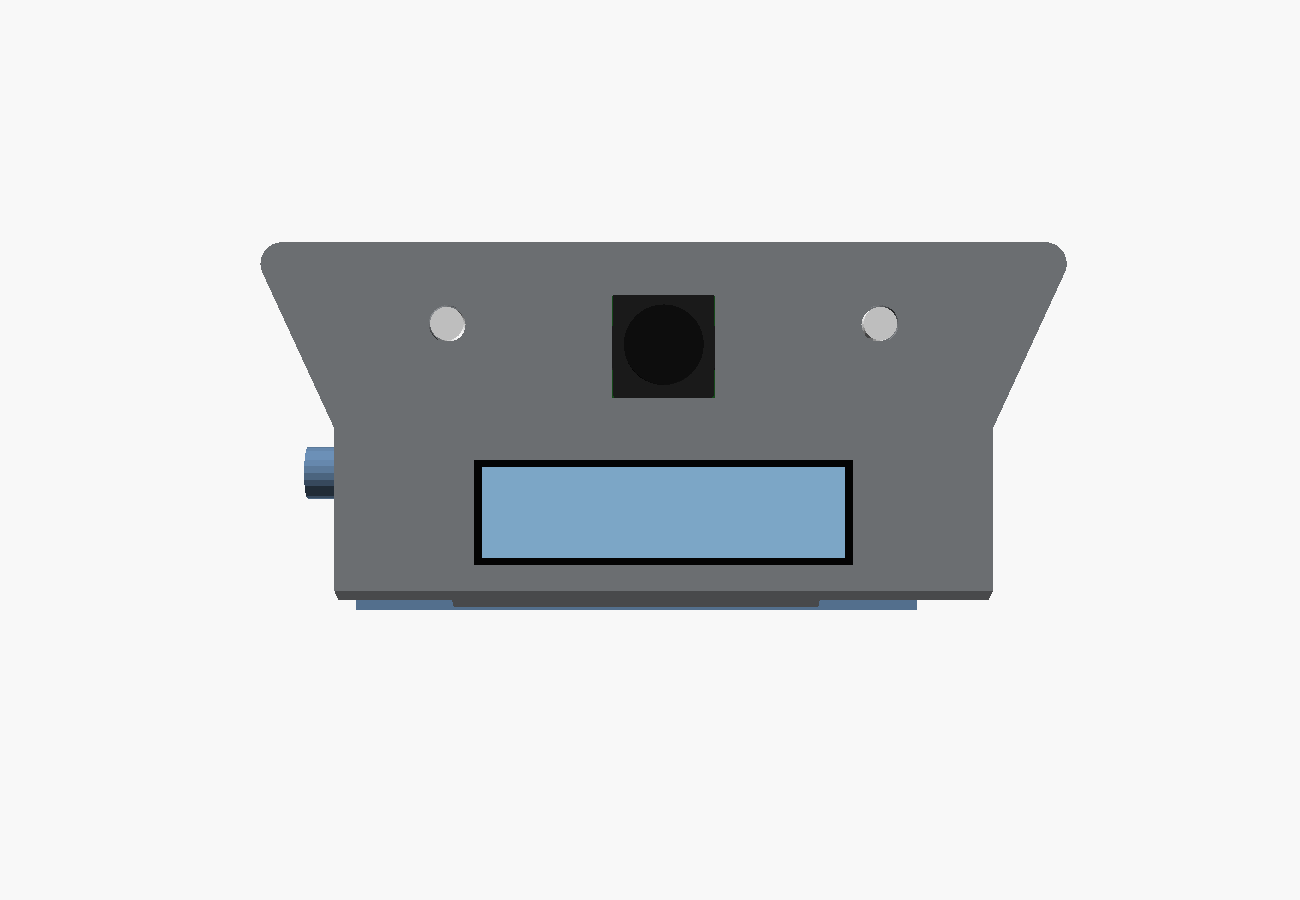
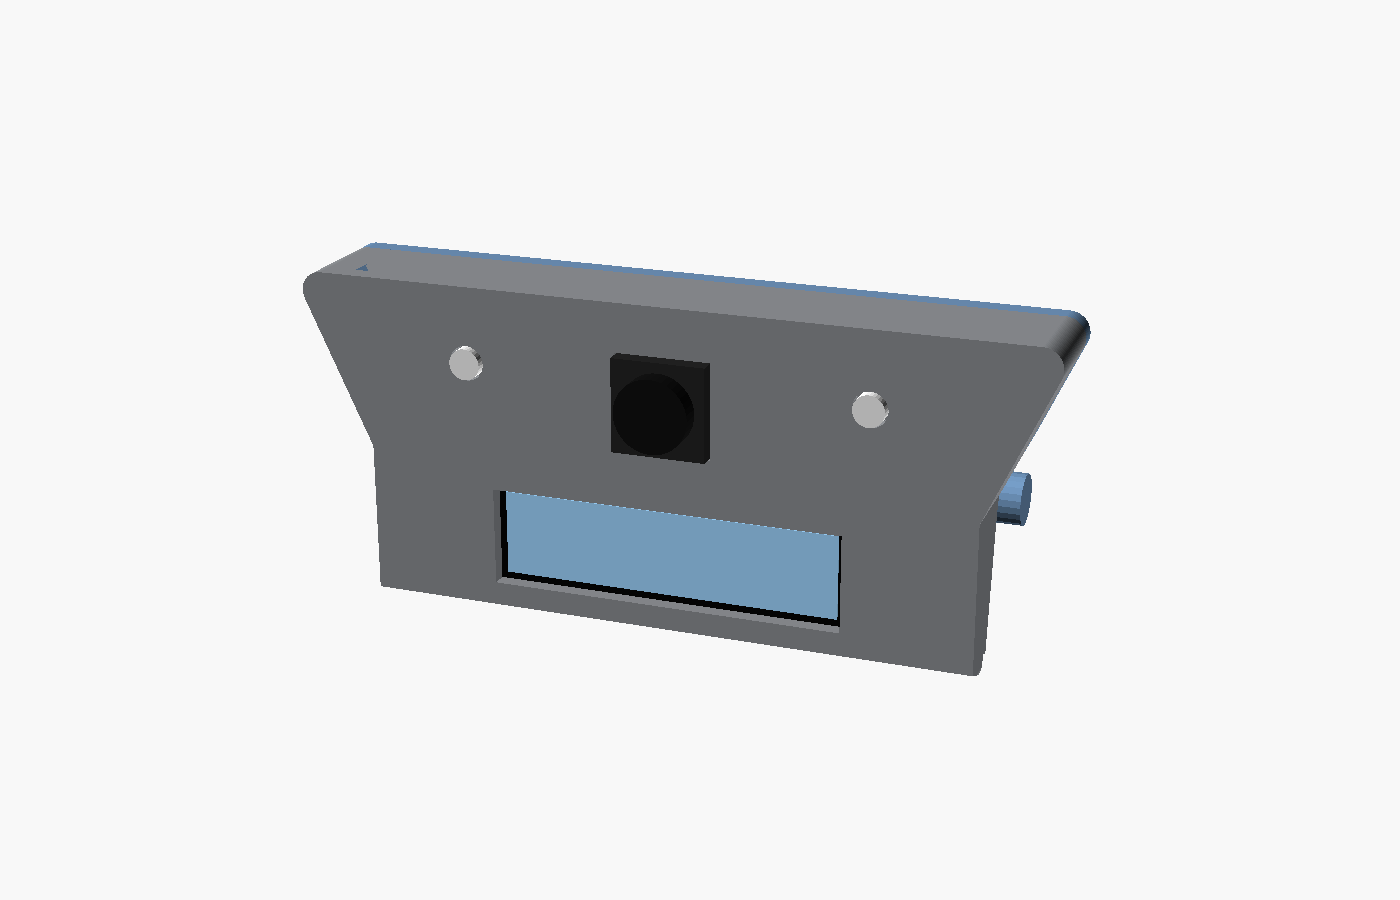
head_v6: closed shell (full sides and bottom to the back plate), full-width back plate with cable slot, strap bosses run to the pocket floor

Changed region(s): [[0.1846, 0.2489, 0.8308, 0.7467], [0.3077, 0.3422, 0.3692, 0.4356], [0.2154, 0.3422, 0.2462, 0.4356]]

diff --git a/hardware/cad/docs/build_photos/README.md b/hardware/cad/docs/build_photos/README.md
@@ -28,7 +28,7 @@ mic cans in their pockets. One side is held by an M2.5 x 12 bolt through the edg
 **Nothing more to print for this step.**
 
 ![Head from the front](03_render_head_front.png)
-*03: front piece from the front: camera hole above the OLED window, the two eye holes (glass domes), visor on top.*
+*03: front piece from the front (now with full side walls and floor, closed up to the back piece): camera hole above the OLED window, the two eye holes (glass domes), visor on top.*
 
 ![Head from the rear](04_render_head_rear.png)
 *04: the assembled head from the rear: back piece with its two ears (bolts), pivot arms and axle stubs.*
@@ -41,11 +41,11 @@ mic cans in their pockets. One side is held by an M2.5 x 12 bolt through the edg
 
 1. **Inserts.** M2.5 inserts into the two joint bosses (top corners of the front piece, pressed in from the rear end). M3 insert into the crank bracket on the back piece's left arm.
 2. **OLED.** Glass into the pocket from behind; the board's bottom edge goes under the rim (the lip along the bottom), then the board lies flat. Put the OLED strap over its top edge, **M2 x 5**, snug only.
-   There are 9.8 mm behind the board for the Dupont plugs; the wires leave through the open bottom.
+   There are 9.8 mm behind the board for the Dupont plugs; the wires leave through the cable slot in the back plate (50 x 9, bottom edge).
 3. **Camera.** Lens cube through the square hole from behind, glass eyes pressed into their seats from the front (spigots are behind the board's two LEDs). One camera strap at each end of the board (**M2 x 6**).
-   The USB cable leaves through the open bottom.
+   The USB cable leaves through the same slot.
 4. **Close.** Back piece on, its two ears onto the joint bosses, **2 x M2.5 x 10** from behind.
-5. **Check.** Camera does not rock, OLED is flat against its window, cable has a free run out of the bottom.
+5. **Check.** Camera does not rock, OLED is flat against its window, cable has a free run out of the slot.
 
 Add your photos here: `07_front_piece_printed.jpg`, `08_oled_fitted.jpg`, `09_camera_fitted.jpg`, `10_head_closed.jpg`.
 
